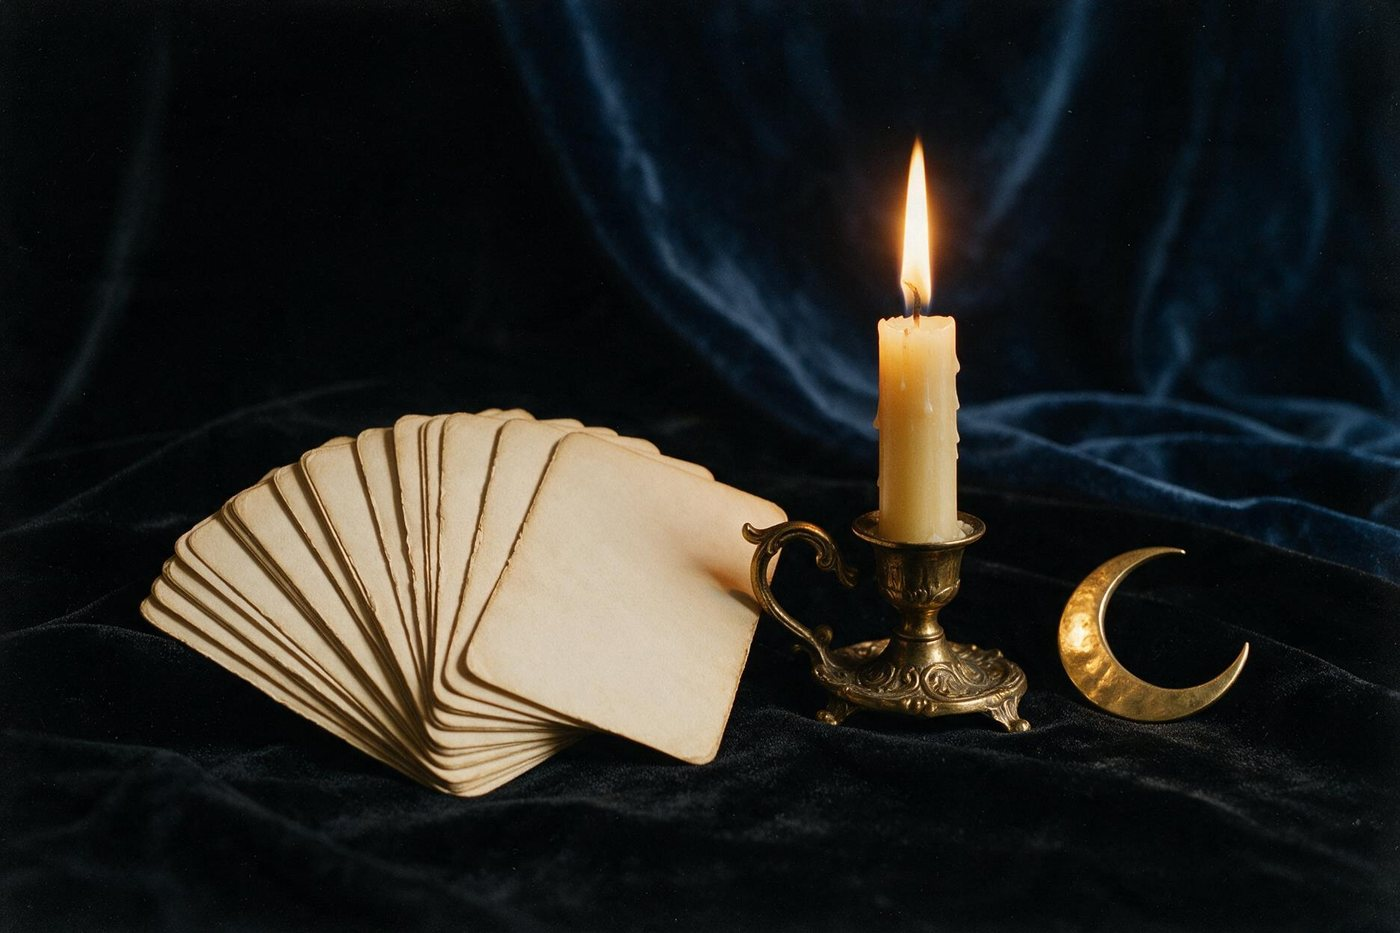
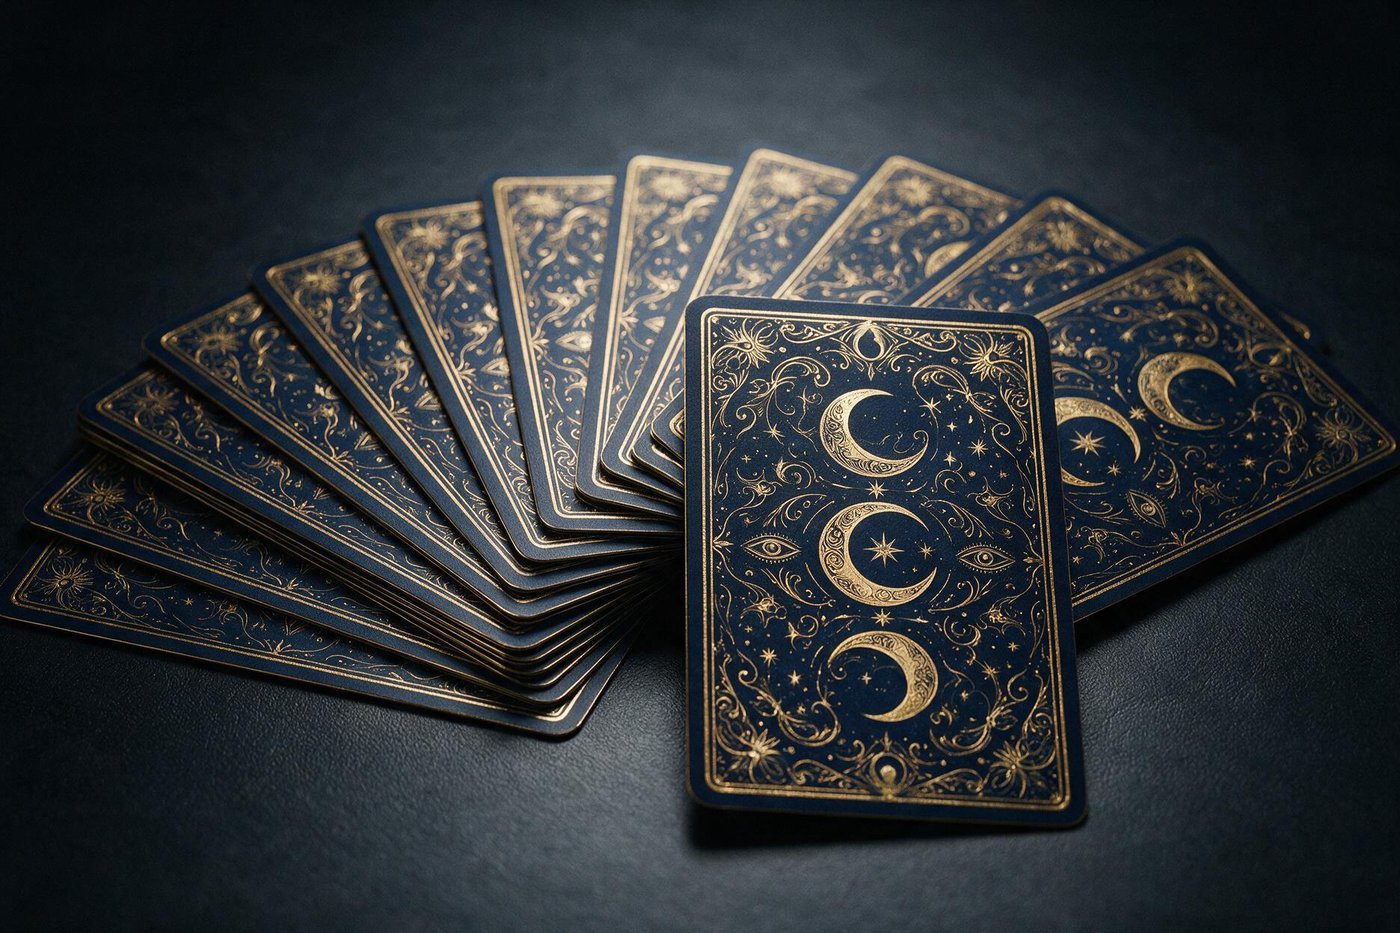
Capturas reales en la tarjeta de Proclade y mockups en los proyectos
- La tarjeta de Proclade muestra los dos sitios en producción en marcos
  de navegador superpuestos, en lugar del wireframe en CSS.
- Nuevos mockups generados para ELUM Tarot (baraja de cartas) y para
  identidad de marca (portada de manual + papelería).
- Enlace al canal de YouTube El Jardín de las Diosas.
- Inglés pasa a dos barras en el bloque de idiomas.

diff --git a/index.html b/index.html
@@ -172,7 +172,7 @@
             <dd>
               <span class="lang-row"><span data-i18n="lang.es">Español</span><span class="bars" data-level="3" aria-hidden="true"><i></i><i></i><i></i></span><em data-i18n="level.native">Nativo</em></span>
               <span class="lang-row"><span data-i18n="lang.pt">Portugués</span><span class="bars" data-level="2" aria-hidden="true"><i></i><i></i><i></i></span><em data-i18n="level.advanced">Avanzado</em></span>
-              <span class="lang-row"><span data-i18n="lang.en">Inglés</span><span class="bars" data-level="1" aria-hidden="true"><i></i><i></i><i></i></span><em data-i18n="level.intermediate">Intermedio</em></span>
+              <span class="lang-row"><span data-i18n="lang.en">Inglés</span><span class="bars" data-level="2" aria-hidden="true"><i></i><i></i><i></i></span><em data-i18n="level.intermediate">Intermedio</em></span>
             </dd>
           </div>
           <div>
@@ -265,17 +265,21 @@
       <!-- Featured: web -->
       <article class="card card-featured reveal">
         <div class="card-visual">
-          <div class="browser" aria-hidden="true">
-            <div class="browser-bar">
-              <span class="tl"></span><span class="tl"></span><span class="tl"></span>
-              <span class="url">procladecolven.org</span>
-            </div>
-            <div class="browser-view">
-              <div class="wf-nav"><span class="wf-logo"></span><span class="wf-i"></span><span class="wf-i"></span><span class="wf-i"></span><span class="wf-cta"></span></div>
-              <div class="wf-hero"><span class="wf-h1"></span><span class="wf-h2"></span><span class="wf-btn"></span></div>
-              <div class="wf-cards"><span></span><span></span><span></span></div>
-              <div class="wf-lines"><span></span><span></span><span></span></div>
-            </div>
+          <div class="shots">
+            <figure class="browser shot-main">
+              <div class="browser-bar">
+                <span class="tl"></span><span class="tl"></span><span class="tl"></span>
+                <span class="url">procladecolven.org</span>
+              </div>
+              <img src="assets/img/site-proclade.jpg" alt="procladecolven.org" loading="lazy" width="1200" height="750">
+            </figure>
+            <figure class="browser shot-sub">
+              <div class="browser-bar">
+                <span class="tl"></span><span class="tl"></span><span class="tl"></span>
+                <span class="url">cmfcolven.org</span>
+              </div>
+              <img src="assets/img/site-cmf.jpg" alt="cmfcolven.org" loading="lazy" width="900" height="562">
+            </figure>
           </div>
         </div>
         <div class="card-body">
@@ -316,6 +320,9 @@
           <div class="chips">
             <span class="chip"><span data-i18n="n.36m">3,6 M+</span> <em data-i18n="chip.views">reproducciones</em></span>
             <span class="chip"><span data-i18n="n.72k">7,2 K</span> <em data-i18n="chip.subs">suscriptores</em></span>
+          </div>
+          <div class="card-links">
+            <a href="https://www.youtube.com/@eljardindelasdiosas" target="_blank" rel="noopener noreferrer">@eljardindelasdiosas <svg viewBox="0 0 24 24" aria-hidden="true"><path d="M7 17 17 7M9 7h8v8"/></svg></a>
           </div>
         </div>
       </article>

diff --git a/assets/css/style.css b/assets/css/style.css
@@ -369,39 +369,27 @@ p{margin:0}
 .card-featured .card-visual::after{display:none}
 .card-featured .card-body{flex:1;justify-content:center;padding:clamp(24px,3.2vw,44px)}
 
-/* browser mockup */
+/* capturas reales de los sitios, en marcos de navegador superpuestos */
+.shots{position:relative;width:100%;padding-bottom:clamp(34px,5vw,54px)}
 .browser{
-  width:100%;border-radius:12px;overflow:hidden;background:#0E1015;
+  margin:0;border-radius:11px;overflow:hidden;background:#0E1015;
   border:1px solid var(--line-strong);box-shadow:0 30px 60px -34px rgba(0,0,0,.95);
-  transition:transform .5s var(--ease);
+  transition:transform .5s var(--ease),box-shadow .5s var(--ease);
 }
-.card-featured:hover .browser{transform:translateY(-4px) scale(1.012)}
-.browser-bar{display:flex;align-items:center;gap:6px;padding:10px 12px;background:#171A20;border-bottom:1px solid var(--line)}
-.browser-bar .tl{width:9px;height:9px;border-radius:50%;background:#2C313A}
+.browser img{width:100%;display:block}
+.browser-bar{display:flex;align-items:center;gap:6px;padding:9px 11px;background:#171A20;border-bottom:1px solid var(--line)}
+.browser-bar .tl{width:8px;height:8px;border-radius:50%;background:#2C313A;flex:none}
 .browser-bar .tl:first-child{background:#3A3F49}
 .browser-bar .url{
-  margin-left:10px;flex:1;background:#0E1015;border-radius:6px;padding:5px 11px;
+  margin-left:9px;flex:1;background:#0E1015;border-radius:6px;padding:5px 11px;
   font-size:11.5px;color:var(--muted-dim);font-family:var(--font-body);
   white-space:nowrap;overflow:hidden;text-overflow:ellipsis;
 }
-.browser-view{padding:16px;display:grid;gap:13px}
-.wf-nav{display:flex;align-items:center;gap:9px}
-.wf-logo{width:34px;height:9px;border-radius:3px;background:var(--accent);opacity:.85}
-.wf-i{width:26px;height:5px;border-radius:3px;background:#262B33}
-.wf-cta{margin-left:auto;width:44px;height:14px;border-radius:7px;border:1px solid #333944}
-.wf-hero{
-  display:grid;gap:8px;padding:20px 16px;border-radius:9px;
-  background:linear-gradient(135deg,#1A1E25,#12151A);
-}
-.wf-h1{width:72%;height:12px;border-radius:4px;background:#39404B}
-.wf-h2{width:52%;height:7px;border-radius:4px;background:#262B33}
-.wf-btn{width:70px;height:17px;border-radius:9px;background:var(--accent);opacity:.9;margin-top:5px}
-.wf-cards{display:grid;grid-template-columns:repeat(3,1fr);gap:9px}
-.wf-cards span{height:44px;border-radius:8px;background:#1A1E25;border:1px solid #22262E}
-.wf-lines{display:grid;gap:6px}
-.wf-lines span{height:5px;border-radius:3px;background:#20242B}
-.wf-lines span:nth-child(2){width:88%}
-.wf-lines span:nth-child(3){width:64%}
+
+.shot-main{width:92%}
+.shot-sub{position:absolute;right:0;bottom:0;width:46%;z-index:2}
+.card-featured:hover .shot-main{transform:translateY(-4px)}
+.card-featured:hover .shot-sub{transform:translateY(-9px);box-shadow:0 34px 64px -30px rgba(0,0,0,1)}
 
 /* ---------- skills ---------- */
 .skills{display:grid;grid-template-columns:repeat(2,1fr);gap:clamp(16px,2.2vw,24px)}

diff --git a/README.md b/README.md
@@ -49,13 +49,9 @@ En uno o dos minutos el sitio está online. Cada `git push` posterior lo actuali
 Todos los textos están en `assets/js/i18n.js`, agrupados por idioma (`pt`, `es`, `en`) y con la
 misma clave en los tres. Para cambiar una frase, edítala en los tres bloques y guarda.
 
-## Pendiente
-
-- Falta el enlace público del canal de YouTube **El Jardín de las Diosas**. Cuando lo tengas,
-  añádelo en `index.html` dentro de la tarjeta del proyecto, copiando el bloque `card-links`
-  que ya existe en las otras tarjetas.
-
 ## Créditos de imágenes
 
-Los visuales de las tarjetas de proyecto se generaron con Magnific. La fotografía de perfil y
-el CV son originales.
+- `site-proclade.jpg` y `site-cmf.jpg` son capturas reales de los sitios en producción.
+- `proj-tarot.jpg`, `proj-branding.jpg`, `proj-jardin.jpg` y `hero-bg.jpg` son mockups y
+  visuales generados con Magnific.
+- La fotografía de perfil y el CV son originales.
